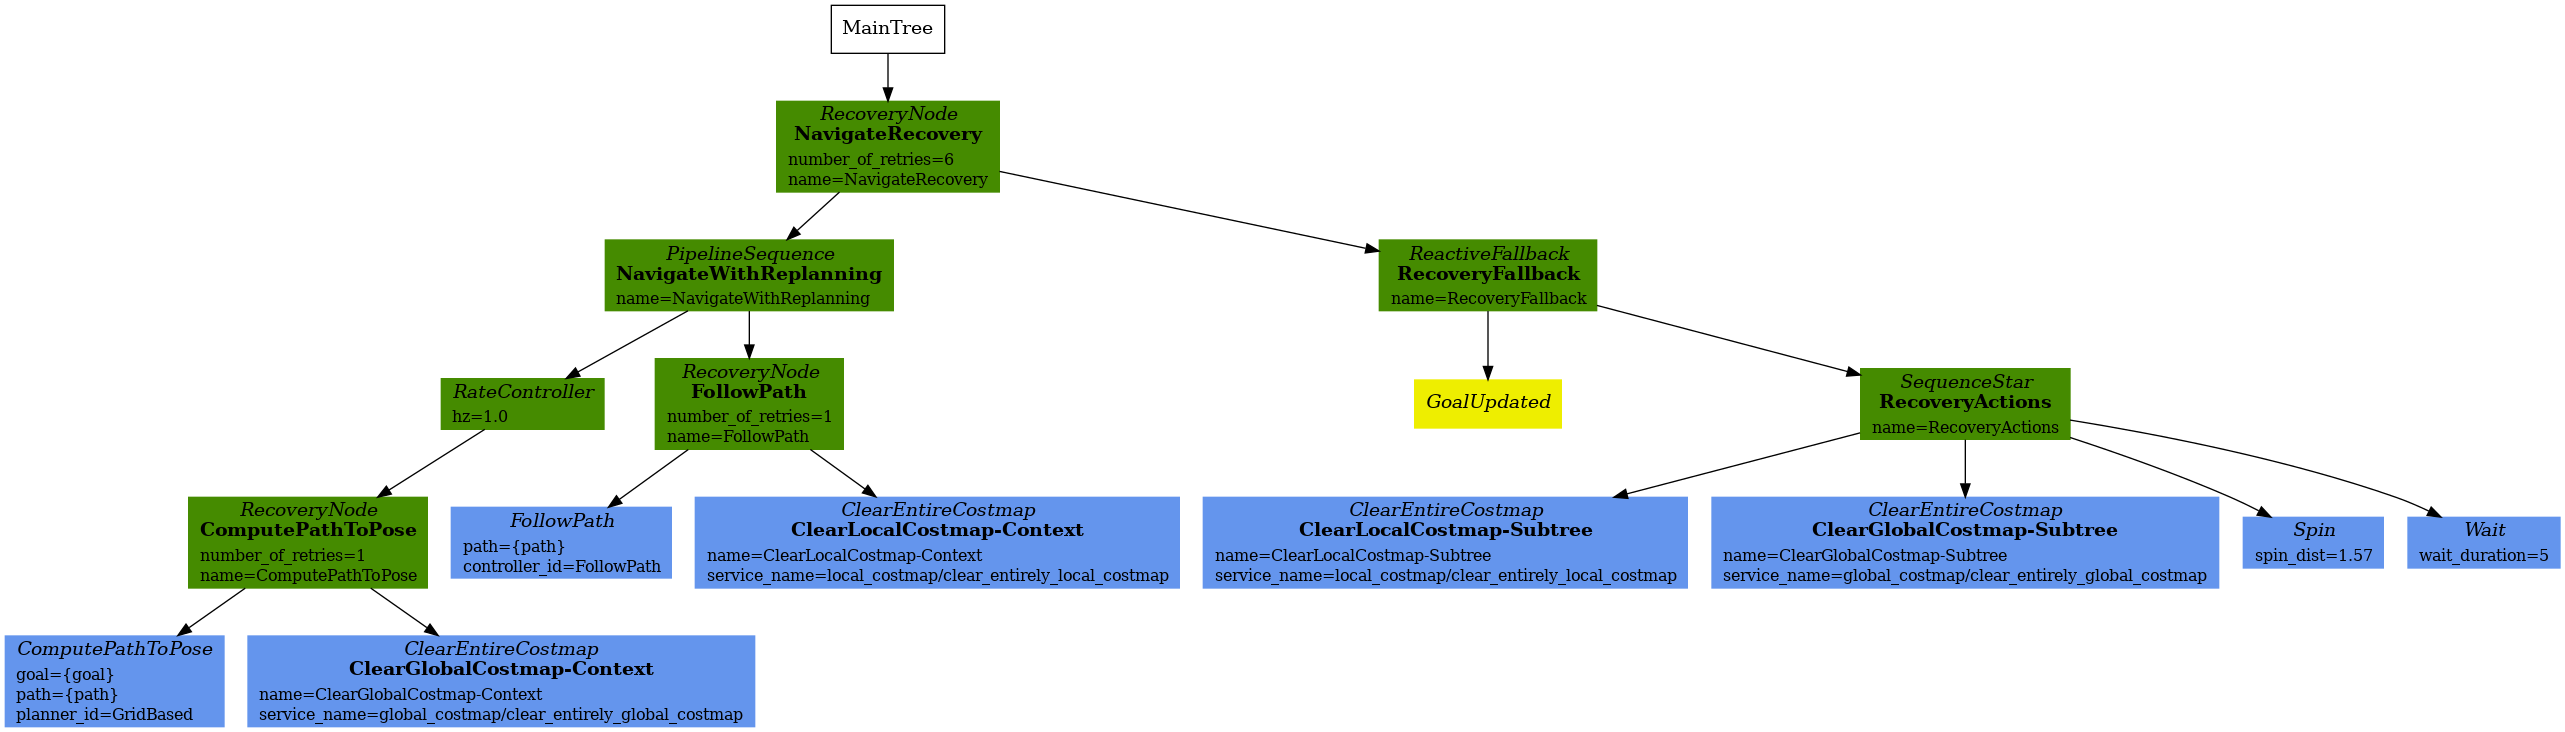
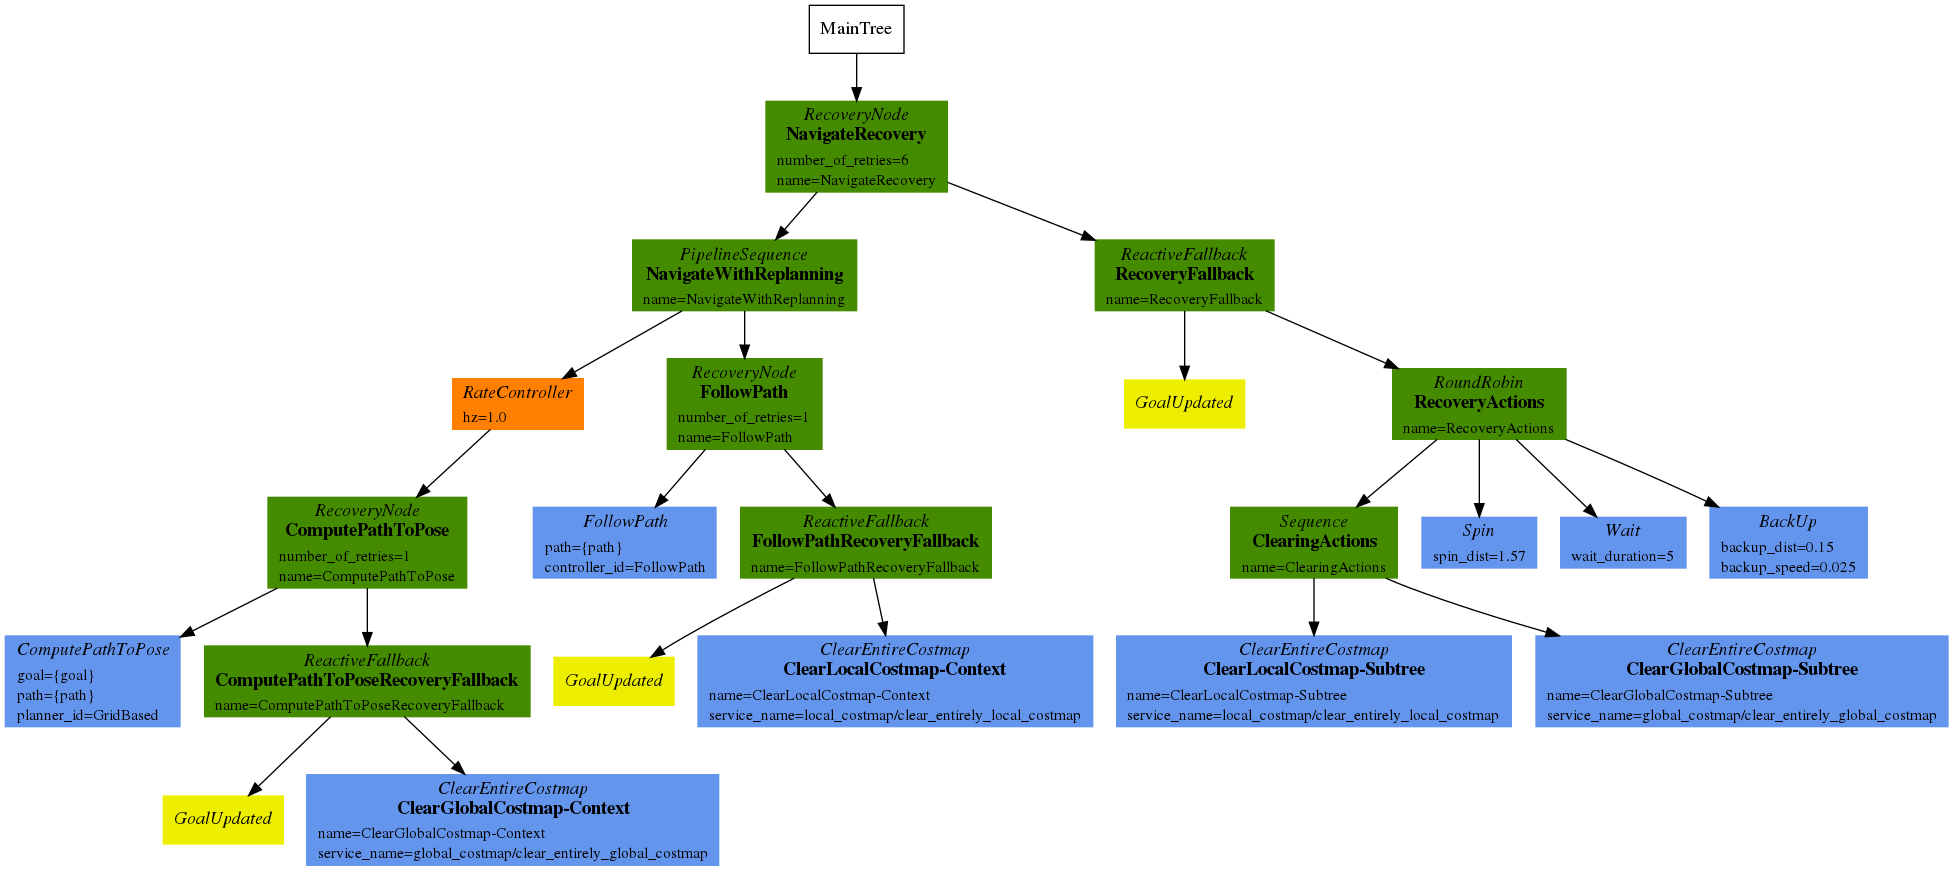
Update readme and docs

diff --git a/nav2_recoveries/plugins/spin.cpp b/nav2_recoveries/plugins/spin.cpp
@@ -122,10 +122,6 @@ Status Spin::onCycleUpdate()
   if (remaining_yaw < 1e-6) {
     stopRobot();
     return Status::SUCCEEDED;
-  } else {
-    RCLCPP_INFO(
-      logger_, "Remaining Yaw: %lf",
-      remaining_yaw);
   }
 
   double vel = sqrt(2 * rotational_acc_lim_ * remaining_yaw);

diff --git a/nav2_bt_navigator/README.md b/nav2_bt_navigator/README.md
@@ -26,7 +26,7 @@ A Behavior Tree consists of control flow nodes, such as fallback, sequence, para
 
 The BT Navigator package has four sample XML-based descriptions of BTs.  
 These trees are [navigate_w_replanning_time.xml](behavior_trees/navigate_w_replanning_time.xml), [navigate_w_replanning_distance.xml](behavior_trees/navigate_w_replanning_distance.xml), [navigate_w_replanning_and_recovery.xml](behavior_trees/navigate_w_replanning_and_recovery.xml) and 
-[followpoint.xml](behavior_trees/followpoint.xml).  
+[follow_point.xml](behavior_trees/follow_point.xml).
 The user may use any of these sample trees or develop a more complex tree which could better suit the user's needs.
 
 ### Navigate with Replanning (time-based)
@@ -59,7 +59,6 @@ returns FAILURE, all nodes are halted and this node returns FAILURE.
 </p>
 <br/>
 
-
 #### Decorator Nodes
 * RateController: A custom control flow node, which throttles down the tick rate.  This custom node has only one child and its tick rate is defined with a pre-defined frequency that the user can set.  This node returns RUNNING when it is not ticking its child. Currently, in the navigation, the `RateController` is used to tick the  `ComputePathToPose` and `GoalReached` node at 1 Hz.
 
@@ -68,7 +67,6 @@ returns FAILURE, all nodes are halted and this node returns FAILURE.
 * SpeedController: A custom control flow node, which controls the tick rate based on the current speed.  This decorator offers the most flexibility as the user can set the minimum/maximum tick rate which is adjusted according to the current speed.
 
 * GoalUpdater: A custom control node, which updates the goal pose. It subscribes to a topic in which it can receive an updated goal pose to use instead of the one commanded in action. It is useful for dynamic object following tasks.
-
 
 #### Condition Nodes
 * GoalReached: Checks the distance to the goal, if the distance to goal is less than the pre-defined threshold, the tree returns SUCCESS, which in that case the `ComputePathToPose` action node will not get ticked.
@@ -90,7 +88,16 @@ The navigate with replanning BT first ticks the `RateController` node which spec
 
 ### Navigate with replanning and simple recovery actions
 
-With the recovery node, simple recoverable navigation with replanning can be implemented by utilizing the [navigate_w_replanning_time.xml](behavior_trees/navigate_w_replanning_time.xml) and a sequence of recovery actions. Our custom behavior actions for recovery are:  `clearEntirelyCostmapServiceRequest` for both global and local costmaps, `spin` and `wait`. A graphical version of this simple recoverable Behavior Tree is depicted in the figure below.
+With the recovery node, simple recoverable navigation with replanning can be implemented by utilizing the [navigate_w_replanning_time.xml](behavior_trees/navigate_w_replanning_time.xml) and a sequence of recovery actions. Our custom behavior actions for recovery are:  `clearEntirelyCostmapServiceRequest` for both global and local costmaps, `spin`, `wait`, and `backup`.
+
+This behavior tree implements multi-scope recovery where both the global planner and the controller have their own recovery actions on failure in addition to the main recovery subtree that gets triggered if the planner or controller continues to fail. The planner/controller specific recovery subtrees contain only a simple costmap clearing action in this BT. The main recovery subtree triggers recovery actions in a round robin fashion where the navigation subtree is retried after trying one recovery action. If the navigation subtree fails even after a retry, the `RoundRobin` node triggers the next recovery action in the sequence and the navigation subtree is retried. This cycle continues until:
+- The navigation subtree succeeds
+- All recovery actions fail
+- Specified number of retries is exceeded
+
+All recovery actions are preemptable and are halted when a new navigation goal arrives.
+
+A graphical version of this simple recoverable Behavior Tree is depicted in the figure below.
 
 <p align="center">
 <img src="./doc/parallel_w_recovery.png" title="" width="95%">
@@ -114,29 +121,12 @@ This way, the recovery actions can be interrupted if a new goal is sent to the b
 #### Multi-Scope Recoveries
 Scope-based failure handling: Utilizing Behavior Trees with a recovery node allows one to handle failures at multiple scopes. With this capability, any action in a large system can be constructed with specific recovery actions suitable for that action. Thus, failures in these actions can be handled locally within the scope. With such design, a system can be recovered at multiple levels based on the nature of the failure. Higher level recovery actions could be recovery actions such as re-initializing the system, re-calibrating the robot, bringing the system to a good known state, etc.
 
-### Navigate with replanning and simple Multi-Scope Recoveries
-In the navigation stack, multi-scope recovery actions are implemented for each module.  Currently, the recovery actions for the Global planner are: Clear Entire Global Costmap and Wait.  The recovery actions for the Local planner are: Clear Entire Local Costmap and Spin; the recovery actions for the system level is just Wait. The figure below highlights a simple multi-scope recovery handling for the navigation task.  With this tree, if the Global Planner fails, the ClearEntireCostmap which is the first recovery action for this module will be ticked, then the ComputePathToPose will be ticked again. If the ComputePathToPose fails again, the Wait which is the second recovery action for this module will be ticked. After trying the second recovery action, the ComputePathToPose will be ticked again. These actions can be repeated n times until ComputePathToPose succeeds.  If the ComputePathToPose fails and the Global Planner cannot be recovered locally, the higher-level recovery actions will be ticked.  In this simple example, our higher-level recovery action is just a longer wait. The same strategy is applied to the Local Planner. If the Local Planner fails, the tree will first tick the ClearEntireCostmap and then if it fails again the tree will tick the Spin.
-
-<br/>
-
-<p align="center">
-<img src="./doc/parallel_w_round_robin_recovery.png" title="" width="95%">
-</p>
-
-This tree currently is not our default tree in the stack. The xml file is located here: [navigate_w_replanning_and_round_robin_recovery.xml](behavior_trees/navigate_w_replanning_and_round_robin_recovery.xml).
-
 ### Navigate following a dynamic point to a certain distance
 This tree is an example of how behavior trees can be used to make the robot do more than navigate the current position to the desired pose. In this case, the robot will follow a point that changes dynamically during the execution of the action. The robot will stop its advance and will be oriented towards the target position when it reaches a distance to the target established in the tree. The UpdateGoal decorator node will be used to update the target position. The TruncatePath node will modify the generated path by removing the end part of this path, to maintain a distance from the target, and changes the orientation of the last position. This tree never returns that the action has finished successfully, but must be canceled when you want to stop following the target position.
 
 ![Navigate following a dynamic point to a certain distance](./doc/follow_point.png)
 
 This tree currently is not our default tree in the stack. The xml file is located here: [follow_point.xml](behavior_trees/follow_point.xml).
-
-<br/>
-
-## Open Issues
-
-* **Schema definition and XML document validation** - Currently, there is no dynamic validation of incoming XML. The Behavior-Tree.CPP library is using tinyxml2, which doesn't have a validator. Instead, we can create a schema for the Mission Planning-level XML and use build-time validation of the XML input to ensure that it is well-formed and valid.
 
 ## Legend
 Legend for the behavior tree diagrams:
